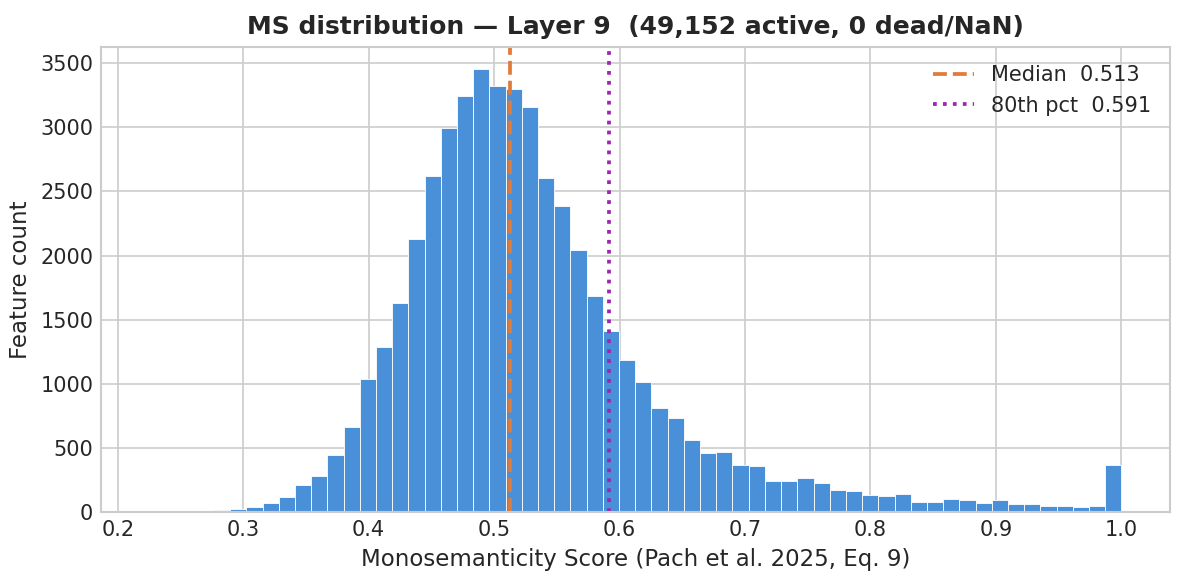
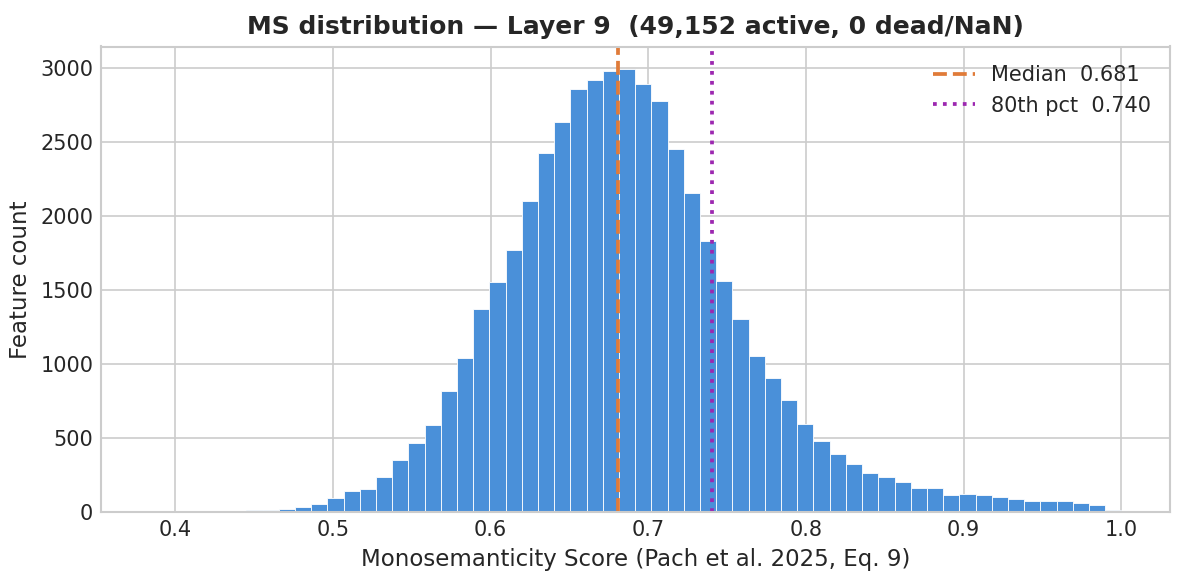
ms with threshold

diff --git a/src/features.py b/src/features.py
@@ -504,10 +504,21 @@ def compute_monosemanticity_score(
     MS → 0: patches visually diverse → polysemantic.
     nan: dead feature (< 2 activating patches).
     """
+    cfg = get_config()
+    dead_threshold = cfg.sae.dead_feature_threshold
     device = _model_device(clip_model)
     scores: dict[int, float] = {}
 
     for feat_idx, patches in tqdm(all_top_patches.items(), desc="MS scores"):
+        # Pach et al. 2025 compliance: exclude features whose dataset-wide maximum
+        # activation never exceeds the dead-feature threshold.  The top-k patches
+        # already contain the highest activations for this feature, so their max
+        # equals the global max — no re-encoding needed.
+        max_act = max((p["activation_value"] for p in patches), default=float("-inf"))
+        if max_act <= dead_threshold:
+            scores[feat_idx] = float("nan")
+            continue
+
         valid = [p for p in patches if p.get("patch_row") is not None][:max_patches]
 
         # When using precomputed embeddings, keep only patches that are in the dict
@@ -720,24 +731,41 @@ def crop_patch_images(
     return crops
 
 
-def crop_clip_images(patches: list[dict], clip_image_size: int = 224) -> list[Image.Image]:
-    """Return CLIP-sized crops centered on each patch token.
+def crop_clip_images(
+    patches: list[dict],
+    clip_image_size: int = 224,
+    context_size: int = 96,
+) -> list[Image.Image]:
+    """Return crops centered on each patch token, sized for CLIP input.
 
-    Uses ``ImageOps.fit`` (resize-then-center-crop) to match the model's
-    preprocessing, then crops a ``clip_image_size × clip_image_size`` window
-    centered on the active patch.  Gives CLIP proper-resolution input instead
-    of a heavily-upscaled 80 px patch crop.  Pass the result of
-    ``_clip_image_size(processor)`` as ``clip_image_size`` for exact alignment.
+    ``context_size`` controls the crop window in the model's 224×224 image
+    space before upscaling to ``clip_image_size``.  Must be < image_size
+    (224) — passing 224 would always return the full image because the crop
+    window can't be centered when it equals the image size.
+
+    Default ``context_size=96`` gives a ~6×6 patch neighbourhood (each patch
+    is 16 px), which is large enough for CLIP to read texture/colour/shape
+    without including irrelevant scene background.
+
+    Why this matters: if context_size == image_size, _centered_square_box
+    clamps both x0 and y0 to 0, so every crop is (0,0,224,224) — the full
+    image — and CLIP labels the dominant ImageNet subject rather than the
+    activated patch region.
     """
     cfg = get_config()
+    # Guard: context_size must be strictly less than image_size
+    context_size = min(context_size, cfg.model.image_size - cfg.model.patch_size)
     crops: list[Image.Image] = []
     for patch in patches:
         if patch.get("patch_row") is None or patch.get("patch_col") is None:
             continue
         with Image.open(Path(patch["image_path"])) as img:
             img = _model_space_image(img)
-        box = _centered_square_box(_patch_box(patch), clip_image_size, cfg.model.image_size)
-        crops.append(img.crop(box))
+        box = _centered_square_box(_patch_box(patch), context_size, cfg.model.image_size)
+        crop = img.crop(box)
+        if clip_image_size != context_size:
+            crop = crop.resize((clip_image_size, clip_image_size), Image.Resampling.BILINEAR)
+        crops.append(crop)
     return crops
 
 

diff --git a/src/model.py b/src/model.py
@@ -58,11 +58,31 @@ def _remap_dino_keys(state_dict):
 
 
 def _patched_load_dino_weights(model_name, dtype, **kwargs):
-    from transformers import ViTModel
-    model = ViTModel.from_pretrained(model_name, torch_dtype=dtype, **kwargs)
-    for p in model.parameters():
-        p.requires_grad = False
-    return _remap_dino_keys(model.state_dict())
+    """Load DINO ViT weights directly, bypassing transformers' from_pretrained.
+
+    transformers >= 5.x refuses torch.load on torch < 2.6 (CVE-2025-32434) even
+    with weights_only=True, which breaks facebook/dino-vitb16 because its `main`
+    revision only ships pytorch_model.bin. We sidestep that gate by fetching the
+    checkpoint ourselves: prefer safetensors, else torch.load(weights_only=True),
+    which is safe on torch 2.5.x. The raw checkpoint keys are already in the
+    `encoder.layer.N...` layout convert_dino_weights expects; _remap_dino_keys is
+    a no-op here but kept in case a future revision uses the renamed layout.
+    """
+    from huggingface_hub import hf_hub_download
+    from huggingface_hub.utils import EntryNotFoundError
+
+    revision = kwargs.get("revision")
+    try:
+        from safetensors.torch import load_file
+        path = hf_hub_download(model_name, "model.safetensors", revision=revision)
+        state_dict = load_file(path)
+    except EntryNotFoundError:
+        path = hf_hub_download(model_name, "pytorch_model.bin", revision=revision)
+        state_dict = torch.load(path, map_location="cpu", weights_only=True)
+
+    if dtype is not None:
+        state_dict = {k: v.to(dtype) for k, v in state_dict.items()}
+    return _remap_dino_keys(state_dict)
 
 
 _model_loader._load_dino_weights = _patched_load_dino_weights